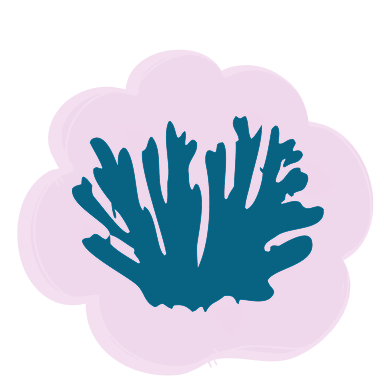
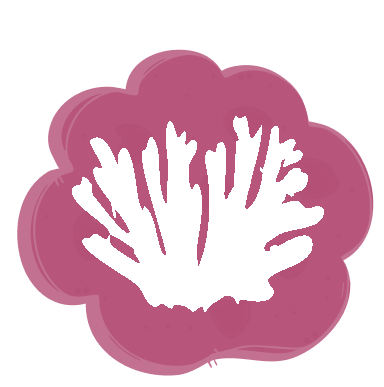
style: align memory cards with C2C palette

diff --git a/memory-game/asset-palette.test.js b/memory-game/asset-palette.test.js
@@ -1,0 +1,84 @@
+import test from "node:test";
+import assert from "node:assert/strict";
+import { readFile } from "node:fs/promises";
+import { inflateSync } from "node:zlib";
+
+const CARD_ASSETS = [
+  "Shark.png", "Jellyfish.png", "Fish.png", "ConeShell.png",
+  "Snail.png", "Conch.png", "Turtle.png", "Seahorse.png",
+  "Seagrass.png", "MantaRay.png", "Whale.png", "Coral.png",
+];
+
+const EXPECTED_COLORS = new Set(["b44f76", "ffffff"]);
+
+function paeth(left, above, upperLeft) {
+  const estimate = left + above - upperLeft;
+  const leftDistance = Math.abs(estimate - left);
+  const aboveDistance = Math.abs(estimate - above);
+  const diagonalDistance = Math.abs(estimate - upperLeft);
+  return leftDistance <= aboveDistance && leftDistance <= diagonalDistance
+    ? left
+    : aboveDistance <= diagonalDistance ? above : upperLeft;
+}
+
+function decodeRgbaPng(buffer) {
+  const idat = [];
+  let width;
+  let height;
+  for (let offset = 8; offset < buffer.length;) {
+    const length = buffer.readUInt32BE(offset);
+    const type = buffer.toString("ascii", offset + 4, offset + 8);
+    const data = buffer.subarray(offset + 8, offset + 8 + length);
+    if (type === "IHDR") {
+      width = data.readUInt32BE(0);
+      height = data.readUInt32BE(4);
+      assert.equal(data[8], 8, "card PNGs must use 8-bit channels");
+      assert.equal(data[9], 6, "card PNGs must be RGBA");
+    } else if (type === "IDAT") {
+      idat.push(data);
+    }
+    offset += length + 12;
+  }
+
+  const compressed = inflateSync(Buffer.concat(idat));
+  const bytesPerPixel = 4;
+  const stride = width * bytesPerPixel;
+  const pixels = Buffer.alloc(stride * height);
+  let sourceOffset = 0;
+
+  for (let row = 0; row < height; row += 1) {
+    const filter = compressed[sourceOffset++];
+    for (let column = 0; column < stride; column += 1) {
+      const raw = compressed[sourceOffset++];
+      const index = row * stride + column;
+      const left = column >= bytesPerPixel ? pixels[index - bytesPerPixel] : 0;
+      const above = row > 0 ? pixels[index - stride] : 0;
+      const upperLeft = row > 0 && column >= bytesPerPixel ? pixels[index - stride - bytesPerPixel] : 0;
+      const predictor = filter === 0 ? 0
+        : filter === 1 ? left
+        : filter === 2 ? above
+        : filter === 3 ? Math.floor((left + above) / 2)
+        : filter === 4 ? paeth(left, above, upperLeft)
+        : assert.fail(`unsupported PNG filter ${filter}`);
+      pixels[index] = (raw + predictor) & 255;
+    }
+  }
+  return pixels;
+}
+
+test("every marine card uses only logo dark pink and white", async () => {
+  for (const asset of CARD_ASSETS) {
+    const pixels = decodeRgbaPng(await readFile(`assets/${asset}`));
+    const colors = new Set();
+    for (let index = 0; index < pixels.length; index += 4) {
+      if (pixels[index + 3] === 0) continue;
+      colors.add(pixels.subarray(index, index + 3).toString("hex"));
+    }
+    assert.deepEqual(colors, EXPECTED_COLORS, asset);
+  }
+});
+
+test("the cookie back uses the logo dark pink", async () => {
+  const cookie = await readFile("assets/cookie-card.svg", "utf8");
+  assert.match(cookie, /fill="#B44F76"/);
+});
